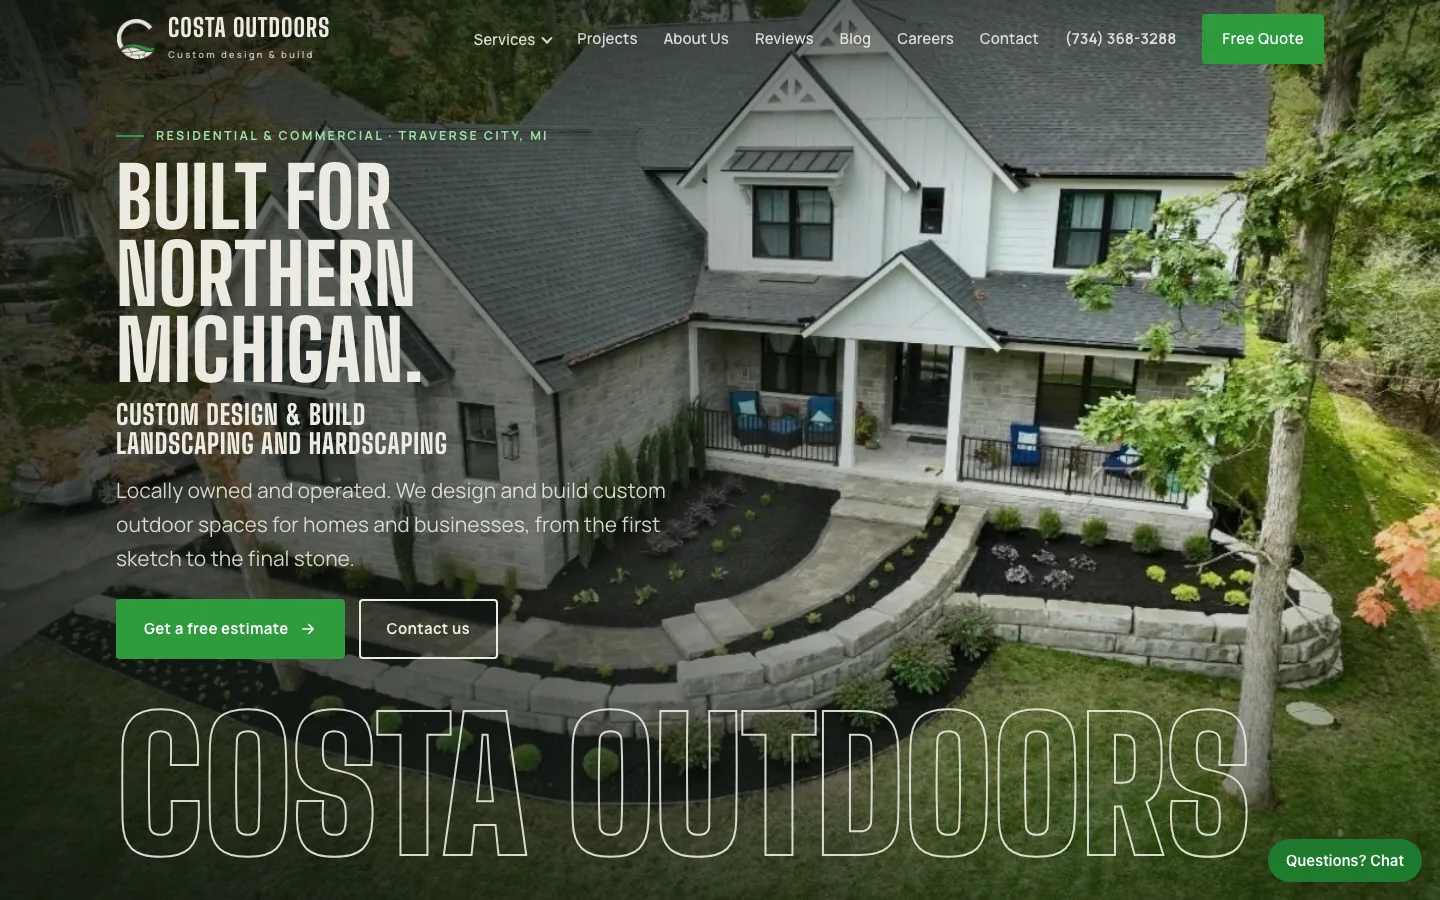
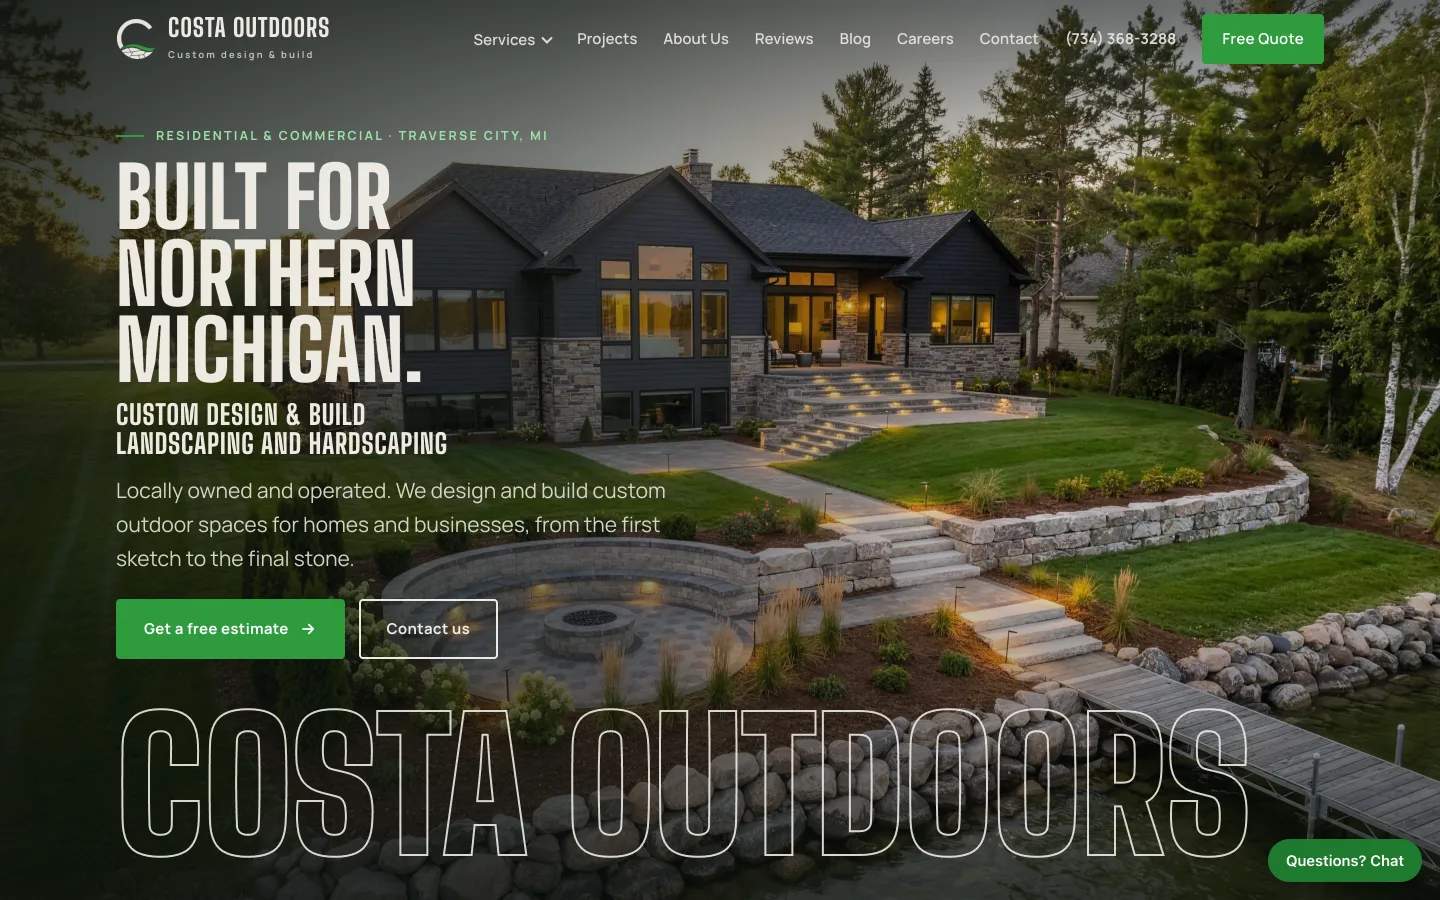
Wind lines on the Tradewind section only, new Costa after shot, Tradewind no-minimum wording
- look.css: keep the brighter blue, drop the wind lines everywhere except the homepage Tradewind section
- Fresh Costa Outdoors "after" screenshot (current lakehouse hero)
- Tradewind: either side can end it any time with one message (Tradewind, Websites, Services EN + ES)

diff --git a/tradewind/index.html b/tradewind/index.html
@@ -708,7 +708,7 @@
           <li>AI drafts for replies, follow-ups and reviews, you approve</li>
           <li>Edit your own website and publish in under a minute</li>
           <li>24/7 chat bubble on your site</li>
-          <li>No minimum on Tradewind, month to month</li>
+          <li>No minimum: either of us can end Tradewind any time with one message</li>
         </ul>
       </div>
       <div class="pb-side">
@@ -747,7 +747,7 @@
       <details><summary>Can I set up repeat jobs?</summary><p>Yes. Set any job to repeat weekly, every 2 weeks or monthly, and the visits fill in on your calendar. You can stop repeating any time.</p></details>
       <details><summary>Can I change my own website?</summary><p>Yes. Change your photos, services, hours and service areas, hit Publish, and your site updates in under a minute.</p></details>
       <details><summary>Is my data safe?</summary><p>Your business's data is walled off from every other business that uses Tradewind, connections are encrypted, and everything is backed up regularly. If you forget your password, you can reset it yourself.</p></details>
-      <details><summary>What does it cost, and is there a contract?</summary><p>$2,000 to build your custom site when you pay up front, then $300 a month: the $200 care plan plus $100 for Tradewind. You can also split the build or start small, the same 3 ways to pay as my website plans. Tradewind itself is month to month with no minimum; the care plan keeps its 6-month minimum.</p></details>
+      <details><summary>What does it cost, and is there a contract?</summary><p>$2,000 to build your custom site when you pay up front, then $300 a month: the $200 care plan plus $100 for Tradewind. You can also split the build or start small, the same 3 ways to pay as my website plans. Tradewind itself has no minimum: either of us can end it any time with one message. When it ends, the app logins for you and your crew are switched off, you get a spreadsheet of your customers, quotes and invoices, your website quote form goes back to sending requests to your email, and your plan drops back to $200 a month. The care plan keeps its 6-month minimum.</p></details>
     </div>
   </div>
 </section>

diff --git a/look.css b/look.css
@@ -1,20 +1,15 @@
-/* Coastal CR look layer (11-12): wind lines + brighter sky blue.
+/* Coastal CR look layer (11-12): brighter sky blue everywhere, wind lines ONLY on the Tradewind section.
    Loaded LAST on each page so it overrides the page's own colours.
-   To go back: remove the <link href="…look.css"> line from each page (or swap wind-flow.svg for wind-streaks.svg). */
+   To go back: remove the <link href="…look.css"> line from each page. */
 
 /* brighter sky blue (from the light Costa Outdoors Instagram post) */
 :root{--paper:#e2eff8;--paper-2:#cfe4f1;--line:#b8d4e6}
 
-/* wind lines behind every light area: one original pattern (scripts/make_wind.py), recoloured with a CSS mask */
-body{position:relative}
-body::before,
-#work::before,#contact::before,section.tint::before,section[style*="paper-2"]::before,.closing::before{
-  content:"";position:absolute;inset:0;z-index:-1;pointer-events:none;
-  -webkit-mask:url(img/wind-flow.svg) 0 0/1600px 960px repeat;mask:url(img/wind-flow.svg) 0 0/1600px 960px repeat;
-  background:rgba(14,111,144,.16)}
-#work,#contact,section.tint,section[style*="paper-2"],.closing{position:relative;isolation:isolate}
-
 /* soft sky glow on the big light sections of the homepage */
 #work,#contact{background:radial-gradient(900px 620px at 88% 6%,rgba(19,144,180,.20),transparent 62%),radial-gradient(800px 560px at 4% 98%,rgba(210,165,95,.12),transparent 62%),linear-gradient(170deg,#e6f1f7 0%,#d4e7f1 55%,#c9e0ee 100%)}
 
-/* no wind lines on the dark heroes at the top (Tony 11-12) */
+/* wind lines: Tradewind section only (Tony 11-12). Original pattern from scripts/make_wind.py, recoloured with a CSS mask */
+section.tw{position:relative;isolation:isolate}
+section.tw::before{content:"";position:absolute;inset:0;z-index:-1;pointer-events:none;
+  -webkit-mask:url(img/wind-flow.svg) 0 0/1600px 960px repeat;mask:url(img/wind-flow.svg) 0 0/1600px 960px repeat;
+  background:rgba(238,240,230,.12)}

diff --git a/services/index.html b/services/index.html
@@ -334,7 +334,7 @@ section.block{padding:56px 0 8px}
           <li><span class="en">Edit your own website, with your logo and colours on every quote and invoice.</span><span class="es">Edite su propio sitio, con su logo y sus colores en cada cotización y factura.</span></li>
         </ul>
         <p class="fit"><b><span class="en">Good for:</span><span class="es">Ideal para:</span></b> <span class="en">anyone juggling quotes, jobs and messages between texts, notes and memory.</span><span class="es">cualquiera que maneja cotizaciones, trabajos y mensajes entre textos, notas y memoria.</span></p>
-        <p class="fit"><b><span class="en">Minimum:</span><span class="es">Mínimo:</span></b> <span class="en">none. Tradewind is month to month (the care plan under it keeps its 6-month minimum). Card payments, autopay, automatic texts from your business number and the iPhone app are coming soon.</span><span class="es">ninguno. Tradewind es mes a mes (el plan de mantenimiento mantiene su mínimo de 6 meses). Pagos con tarjeta, cobro automático, mensajes automáticos desde el número de su negocio y la app para iPhone vienen pronto.</span></p>
+        <p class="fit"><b><span class="en">Minimum:</span><span class="es">Mínimo:</span></b> <span class="en">none. Either of us can end Tradewind any time with one message (the care plan under it keeps its 6-month minimum). Card payments, autopay, automatic texts from your business number and the iPhone app are coming soon.</span><span class="es">ninguno. Cualquiera de los dos puede terminar Tradewind cuando quiera con un mensaje (el plan de mantenimiento mantiene su mínimo de 6 meses). Pagos con tarjeta, cobro automático, mensajes automáticos desde el número de su negocio y la app para iPhone vienen pronto.</span></p>
       </article>
     </div>
 

diff --git a/websites/index.html b/websites/index.html
@@ -792,7 +792,7 @@
       </details>
       <details>
         <summary>Is there a minimum?</summary>
-        <p>Every care plan, Basic or Custom, has a 6-month minimum from launch day. After that it is month to month and you can cancel with one message. Tradewind has no minimum. Growth plans have a 3-month minimum.</p>
+        <p>Every care plan, Basic or Custom, has a 6-month minimum from launch day. After that it is month to month and you can cancel with one message. Tradewind has no minimum: either of us can end it any time with one message, and the plan drops back to $200 a month. Growth plans have a 3-month minimum.</p>
       </details>
       <details>
         <summary>What happens if I stop the care plan?</summary>

diff --git a/index.html b/index.html
@@ -635,7 +635,7 @@
       </a>
       <div class="co-side">
         <div class="ba media-rev" id="ba3">
-          <img class="before-img" src="img/costaoutdoors-after.webp" alt="Costa Outdoors new website">
+          <img class="before-img" src="img/costaoutdoors-after.webp?v=2" alt="Costa Outdoors new website">
           <div class="after-wrap" id="aw3">
             <div class="after-img-sizer" id="as3">
               <img src="img/costaoutdoors-before.webp" alt="Costa Outdoors old website">

diff --git a/work/costa-outdoors/index.html b/work/costa-outdoors/index.html
@@ -384,7 +384,7 @@
     </div>
 
     <div class="ba" id="ba1">
-      <img src="../../img/costaoutdoors-after.webp" alt="New Costa Outdoors website" width="1440" height="900">
+      <img src="../../img/costaoutdoors-after.webp?v=2" alt="New Costa Outdoors website" width="1440" height="900">
       <div class="after-wrap" id="aw1">
         <div class="after-img-sizer" id="as1">
           <img src="../../img/costaoutdoors-before.webp" alt="Old Costa Outdoors website" width="1440" height="900">
